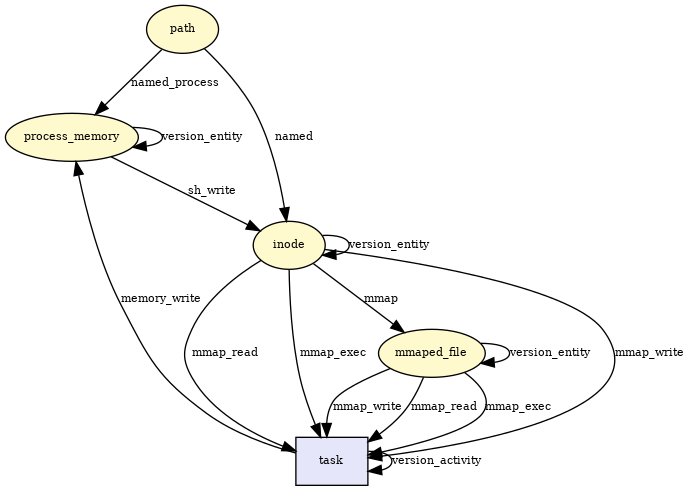
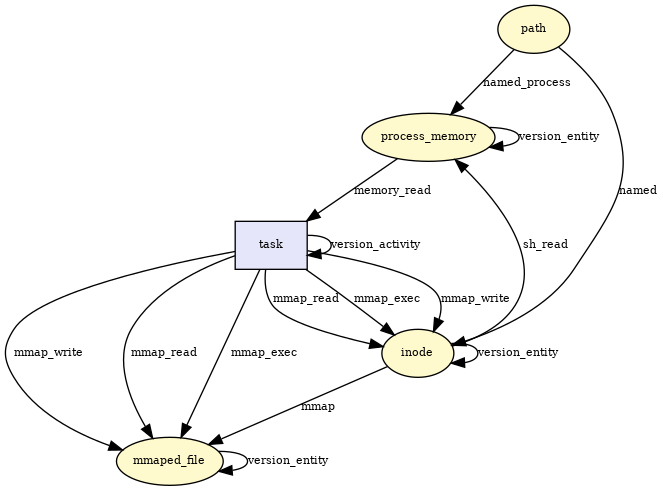
change edge direction for mmap and unmmap (need to have a meeting with Michael and Margo to review the models)

diff --git a/security/provenance/hooks.c b/security/provenance/hooks.c
@@ -1302,15 +1302,15 @@ static int provenance_mmap_file(struct file *file,
 	if ((flags & MAP_TYPE) == MAP_SHARED
 	    || (flags & MAP_TYPE) == MAP_SHARED_VALIDATE) {
 		if ((prot & (PROT_WRITE)) != 0)
-			rc = uses(RL_MMAP_WRITE, iprov, tprov, cprov, file, flags);
+			rc = generates(RL_MMAP_WRITE, cprov, tprov, iprov, file, flags);
 		if (rc < 0)
 			goto out;
 		if ((prot & (PROT_READ)) != 0)
-			rc = uses(RL_MMAP_READ, iprov, tprov, cprov, file, flags);
+			rc = generates(RL_MMAP_READ, cprov, tprov, iprov, file, flags);
 		if (rc < 0)
 			goto out;
 		if ((prot & (PROT_EXEC)) != 0)
-			rc = uses(RL_MMAP_EXEC, iprov, tprov, cprov, file, flags);
+			rc = generates(RL_MMAP_EXEC, cprov, tprov, iprov, file, flags);
 	} else{
 		bprov = branch_mmap(iprov, cprov);
 		if (!bprov)
@@ -1319,15 +1319,15 @@ static int provenance_mmap_file(struct file *file,
 		if (rc < 0)
 			goto out;
 		if ((prot & (PROT_WRITE)) != 0)
-			rc = uses(RL_MMAP_WRITE, bprov, tprov, cprov, file, flags);
+			rc = generates(RL_MMAP_WRITE, cprov, tprov, bprov, file, flags);
 		if (rc < 0)
 			goto out;
 		if ((prot & (PROT_READ)) != 0)
-			rc = uses(RL_MMAP_READ, bprov, tprov, cprov, file, flags);
+			rc = generates(RL_MMAP_READ, cprov, tprov, bprov, file, flags);
 		if (rc < 0)
 			goto out;
 		if ((prot & (PROT_EXEC)) != 0)
-			rc = uses(RL_MMAP_EXEC, bprov, tprov, cprov, file, flags);
+			rc = generates(RL_MMAP_EXEC, cprov, tprov, bprov, file, flags);
 	}
 out:
 	spin_unlock(prov_lock(iprov));
@@ -1370,7 +1370,7 @@ static void provenance_mmap_munmap(struct mm_struct *mm,
 			iprov = file_provenance(mmapf, false);
 			spin_lock_irqsave_nested(prov_lock(cprov), irqflags, PROVENANCE_LOCK_PROC);
 			spin_lock_nested(prov_lock(iprov), PROVENANCE_LOCK_INODE);
-			uses(RL_MUNMAP, iprov, tprov, cprov, mmapf, flags);
+			generates(RL_MUNMAP, cprov, tprov, iprov, mmapf, flags);
 			spin_unlock(prov_lock(iprov));
 			spin_unlock_irqrestore(prov_lock(cprov), irqflags);
 		}

diff --git a/include/uapi/linux/provenance_types.h b/include/uapi/linux/provenance_types.h
@@ -91,6 +91,10 @@
 #define RL_SH_CREATE_READ     (RL_GENERATED | (0x0000000000000001ULL<<23))
 #define RL_SH_CREATE_WRITE    (RL_GENERATED | (0x0000000000000001ULL<<24))
 #define RL_FILE_LOCK          (RL_GENERATED | (0x0000000000000001ULL<<25))
+#define RL_MMAP_WRITE         (RL_GENERATED | (0x0000000000000001ULL<<26))
+#define RL_MMAP_READ          (RL_GENERATED | (0x0000000000000001ULL<<27))
+#define RL_MMAP_EXEC          (RL_GENERATED | (0x0000000000000001ULL<<28))
+#define RL_MUNMAP          		(RL_GENERATED | (0x0000000000000001ULL<<29))
 /* no more than 51!!!! */
 
 /* USED SUBTYPES */
@@ -118,10 +122,6 @@
 #define RL_SH_ATTACH_READ     (RL_USED      | (0x0000000000000001ULL<<22))
 #define RL_SH_ATTACH_WRITE    (RL_USED 			| (0x0000000000000001ULL<<23))
 #define RL_GETGID             (RL_USED 			| (0x0000000000000001ULL<<24))
-#define RL_MMAP_WRITE         (RL_USED			| (0x0000000000000001ULL<<25))
-#define RL_MMAP_READ          (RL_USED			| (0x0000000000000001ULL<<26))
-#define RL_MMAP_EXEC          (RL_USED			| (0x0000000000000001ULL<<27))
-#define RL_MUNMAP          		(RL_USED			| (0x0000000000000001ULL<<28))
 /* no more than 51!!!! */
 
 /* INFORMED SUBTYPES */
